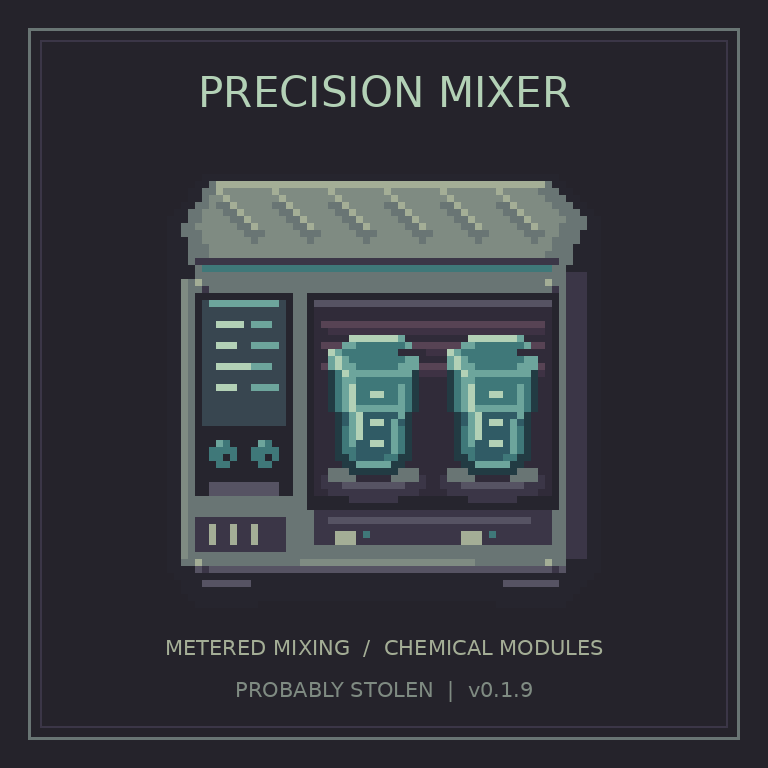
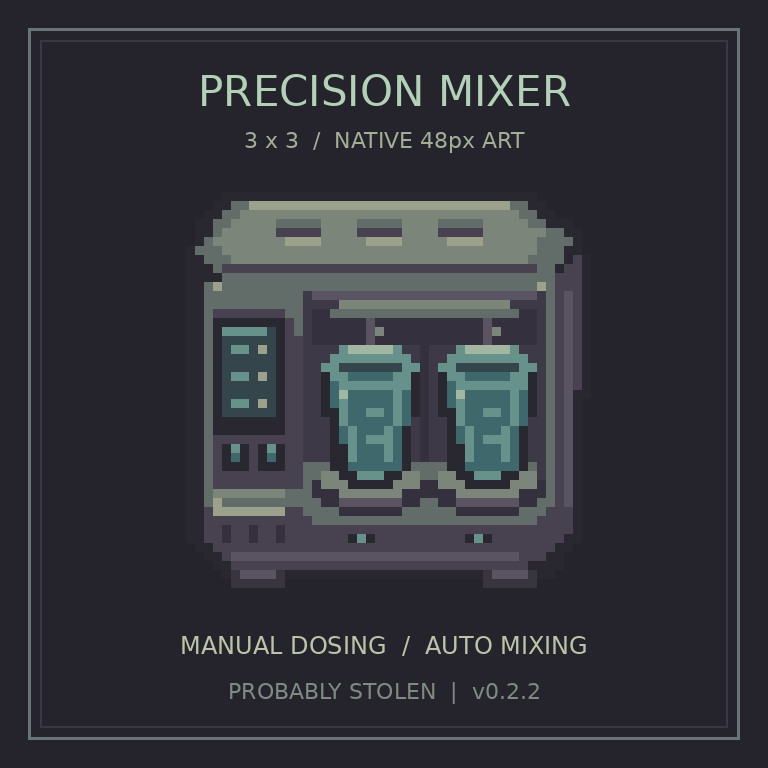
release: prepare v0.2.2 metadata and record user-tested status

diff --git a/publishing/draw_preview.py b/publishing/draw_preview.py
@@ -1,0 +1,28 @@
+"""Rebuild the Workshop preview from original runtime art (Pillow + DejaVu Sans)."""
+from pathlib import Path
+from PIL import Image, ImageDraw, ImageFont
+import xml.etree.ElementTree as ET
+
+root = Path(__file__).resolve().parents[1]
+version = ET.parse(root / 'assets/manifest.xml').findtext('ModVersion')
+font_path = next((p for p in (Path('/usr/share/fonts/TTF/DejaVuSans.ttf'),
+                            Path('/usr/share/fonts/truetype/dejavu/DejaVuSans.ttf')) if p.is_file()), None)
+if font_path is None:
+    raise SystemExit('Install DejaVu Sans or update the font path in this script.')
+canvas = Image.new('RGB', (768, 768), '#25232b')
+draw = ImageDraw.Draw(canvas)
+draw.rectangle((28, 28, 739, 739), outline='#697574', width=3)
+draw.rectangle((40, 40, 727, 727), outline='#3b3647', width=2)
+def title(y, text, size, color):
+    draw.text((384, y), text, anchor='mt', fill=color, font=ImageFont.truetype(str(font_path), size))
+title(74, 'PRECISION MIXER', 42, '#b3d1b6')
+title(132, '3 x 3  /  NATIVE 48px ART', 22, '#a4ae96')
+with Image.open(root / 'assets/Textures/Items/precision_mixer_both.png') as sprite:
+    enlarged = sprite.resize((432, 432), Image.Resampling.NEAREST)
+    canvas.paste(enlarged, (168, 174), enlarged)
+title(636, 'MANUAL DOSING  /  AUTO MIXING', 24, '#bcc4a8')
+title(682, f'PROBABLY STOLEN  |  v{version}', 22, '#7f8b82')
+output = root / 'publishing/workshop-preview.png'
+canvas.save(output)
+assert output.stat().st_size < 1_000_000
+print(f'Preview created: 768px, integer9x sprite enlargement; {output.stat().st_size} bytes.')

diff --git a/publishing/prepare_workshop.py b/publishing/prepare_workshop.py
@@ -29,8 +29,8 @@ def main():
         raise SystemExit("Build the mod before preparing upload.")
     import xml.etree.ElementTree as ET
     version = ET.parse(folder / "manifest.xml").findtext("ModVersion")
-    if version != "0.1.9":
-        raise SystemExit(f"Workshop metadata still describes 0.1.9, not staged {version}; update and review it before publishing.")
+    if version != "0.2.2":
+        raise SystemExit(f"Workshop metadata still describes 0.2.2, not staged {version}; update and review it before publishing.")
     values = {
         "appid": "4348910",
         "publishedfileid": item_id,
@@ -39,7 +39,7 @@ def main():
         "visibility": "0",
         "title": "Precision Mixer / 精密配比机",
         "description": (ROOT / "publishing/workshop-description.txt").read_text(),
-        "changenote": "v0.1.9: adopt GNU GPL v3 only; include LICENSE, NOTICE and corresponding source links. Gameplay unchanged from v0.1.8.",
+        "changenote": "v0.2.2: full 3x3 footprint, original native 48px four-state art, saved-footprint reload handling. Includes manual dosing / chem_scanner-gated automatic mixing and Jackson's 25% daily, one-per-save stock. User confirmed testing passed. GPL-3.0-only; source on GitHub.",
     }
     TARGET.parent.mkdir(parents=True, exist_ok=True)
     TARGET.write_text('"workshopitem"\n{\n' + ''.join(f'    {quote(k)} {quote(v)}\n' for k, v in values.items()) + '}\n')

diff --git a/publishing/README.md b/publishing/README.md
@@ -1,41 +1,40 @@
 # Publishing / 发布
 
-GitHub repository: https://github.com/mcxufly/probably-stolen-precision-mixer
+- Repository: https://github.com/mcxufly/probably-stolen-precision-mixer
+- Release: https://github.com/mcxufly/probably-stolen-precision-mixer/releases/tag/v0.2.2
+- Existing public Workshop item: https://steamcommunity.com/sharedfiles/filedetails/?id=3834261506
 
-GitHub release for the GPL v3 update: https://github.com/mcxufly/probably-stolen-precision-mixer/releases/tag/v0.1.9
+Version0.2.2 adds a full3×3 footprint, original48px four-state art, and footprint restoration on load. It also includes the dual-mode/analyzer gate and Jackson stock changes since the last public release0.1.9. Release notes: `RELEASE-v0.2.2.md`.
 
-The public Workshop item was verified at v0.1.8. Its v0.1.9 license files and description are prepared locally; it still needs a SteamCMD upload using the same item ID.
+## Build and validate
 
-Public Workshop item: https://steamcommunity.com/sharedfiles/filedetails/?id=3834261506
+```sh
+bash build.sh
+python3 verification/check_localization.py
+python3 verification/check_sprites.py
+python3 verification/check_sprites.py dist/PrecisionMixer
+python3 publishing/draw_preview.py
+python3 publishing/prepare_workshop.py
+```
 
-Workshop ID `3834261506` is recorded in `workshop-id.txt`. Fresh checkouts reuse it automatically; a conflicting nonzero ID in the local VDF aborts upload rather than updating the wrong item. Public page, creator, preview, bilingual description and subscribe controls were verified without signing into Steam.
+Run the algorithm and real-game API checks described in the root README. Only `dist/PrecisionMixer` is Workshop content. Do not include game DLLs, reference sprites, decompiled output, development scripts, credentials, archives or artwork source in that folder. Preview artwork is original and its enlarged sprite uses integer nearest-neighbour sampling; keep the file below1MB.
 
-## Steam Workshop / 创意工坊
+## GitHub
 
-The upload is configured as **public** for App ID `4348910`. Login must use a Steam account that owns the game. Do not place passwords, Steam Guard codes, Steam config files, or auth caches in the repository.
+Keep the manifest, documentation, `v0.2.2` tag, release and archive names in sync. Attach `PrecisionMixer-0.2.2.zip` plus `PrecisionMixer-0.2.2-source.zip`; the latter must contain tracked original sources, resources, reproducible art/build scripts, LICENSE and NOTICE. Preserve older tags. Verify the public release status and downloaded archive hashes after upload.
 
-本次上传可见性为**公开**。请使用拥有游戏的 Steam 账号，在你自己的终端输入密码与 Steam Guard；不要把密码或验证码发到聊天里。
+## Steam Workshop
 
-1. Build: `bash build.sh`.
-2. The script prefers `steamcmd` installed on `PATH` (currently `/usr/bin/steamcmd`), or an executable path supplied as `STEAMCMD_BIN`. It falls back to `.tools/steamcmd/steamcmd.sh`. SteamCMD needs 32-bit C/C++ runtime support. Its HOME is isolated under ignored `.tools/steam-home`, so an existing login under your usual home may need to be repeated.
-3. Run in a terminal:
+App ID4348910, visibility public. `workshop-id.txt` records the existing item3834261506. The VDF generator preserves its ID and aborts on a conflicting nonzero ID. Never reset this ID to retry an update.
 
-   ```bash
-   bash publishing/upload_workshop.sh YOUR_STEAM_LOGIN_NAME
-   ```
+```sh
+bash publishing/upload_workshop.sh YOUR_STEAM_LOGIN_NAME
+```
 
-   Replace the placeholder with your Steam **login name**, not your profile display name. The script launches SteamCMD with no password in its arguments. SteamCMD prompts for password/Guard as required.
+The script prefers the user's installed `steamcmd` or `STEAMCMD_BIN`, falling back to the project-local copy. It uses SteamCMD's normal account cache without redefining HOME. A previous cache under `.tools/steam-home` is not automatically copied or reused. Password/Steam Guard must be entered by the user in their own interactive terminal; never send them in chat or put them in command arguments/logs/source. Authentication caches remain outside tracked sources.
 
-4. After successful upload, SteamCMD writes the new `publishedfileid` back to `.tools/steamcmd/workshop.vdf`. **Keep this file**: its ID is required for future updates. The generator preserves it, preventing accidental duplicate items. Do not delete/recreate it to retry an update. Steam login/config files stay under ignored `.tools`.
-5. Open `https://steamcommunity.com/sharedfiles/filedetails/?id=ITEM_ID`. On first upload, accept the Steam Workshop legal agreement if Steam asks. Confirm the item is public, subscribe, enable it in the game Mods menu, and restart.
-6. Report the item URL/ID back to record and verify the release. Do not share login logs containing secrets.
+After upload, verify the public item page, creator, App, preview, bilingual description, subscribe controls and update version. Cached or delayed Workshop content is not proof of a failed upload; check the actual update timestamp and upload result before retrying.
 
-The VDF is generated by `prepare_workshop.py`; source description and preview are tracked here. Only `dist/PrecisionMixer` is uploaded as workshop content; development scripts, game assemblies, and decompiled inspection files are excluded.
+## Test status
 
-## GitHub Releases
-
-Tag `v0.1.9` includes the GPL-3.0-only license update. Release notes are in `RELEASE-v0.1.9.md`; attach both the install ZIP and the corresponding source ZIP. Both include LICENSE and NOTICE; the source ZIP includes build scripts, resources and artwork sources. Preserve older release tags. The Workshop description points to the exact source release.
-
-## Validation caveat
-
-The build, algorithms, real game fluid-allocation functions, manifest compatibility, and game scanner are checked automatically. The user confirmed the chemical-module gameplay test for v0.1.8. That confirmation does not establish exhaustive manual UI/save-load coverage; the license update does not change gameplay.
+The build, algorithms, real game fluid allocation, manifest compatibility, sprite sampling and native scanner are automatically checked. The user explicitly confirmed successful testing of the0.2.2 update on2026-11-09, in addition to the earlier0.1.8 chemical-module confirmation. This is not a claim that every UI/save-load/rotated-placement boundary was individually tested.

diff --git a/publishing/RELEASE-v0.2.2.md b/publishing/RELEASE-v0.2.2.md
@@ -1,4 +1,4 @@
-# 0.2.2 — 3×3 footprint and native-resolution art (local build)
+# 0.2.2 — 3×3 footprint and native-resolution art
 
 ## Changes / 修改
 
@@ -20,8 +20,20 @@
 - Real manifest parser/version normalization and ModScanner pass; no capabilities or hard refusal flags.
 - Both locales:72 matching keys and valid placeholders.
 - Four-state art was visually inspected; deterministic generation checked.
-- No interactive game test of this new footprint, old-save migration or rotated placement has been performed. Existing v0.1.8 chemical-module test confirmation is not treated as acceptance of this new version.
+- On 2026-11-09 the user explicitly confirmed that this 0.2.2 update had been tested successfully. The user did not enumerate every old-save, rotated-placement or UI boundary scenario; this is not a claim of exhaustive coverage. The earlier v0.1.8 chemical-module test confirmation is retained separately.
 
-## Scope / 范围
+## Included since the last public release / 相对上次公开版本
 
-Local development build only. No game-directory installation, Steam upload, GitHub push/release, or release tag was performed for this task. Use the paired installation/source archives; the source includes the reproducible art script and build instructions.
+The last public release was0.1.9; this release also includes the subsequent dual-mode dosing and stock changes:
+
+- Manual mL dosing works without a detector, including into an empty target bottle. Amounts round down to the chemical-module metering step; the preview shows the actual dose.
+- Automatic percentage mixing requires an owned original `chem_scanner` (not water-test paper or a basic water scanner). Losing it returns the machine to manual mode and clears analysis UI.
+- Dr. Jackson stocks the machine with a stable25% daily chance, with one successful purchase per save. The in-machine bilingual help explains the rules.
+
+仅掺杂模式无需检测仪；自动配比必须持有原版完整化学检测仪。博士每日25%稳定概率上架，每存档限购一台；机器内提供中英文说明。
+
+## Upgrade / 升级
+
+Subscribe/update through the existing Workshop item or replace the manual-install `PrecisionMixer` folder, then restart the game. Back up saves first. The machine is smaller but storage-node order and contents are unchanged. Before uninstalling, remove bottles and dispose of all mixers; installed chemical modules remain locked.
+
+This release updates the existing public GitHub repository and Workshop item3834261506; it does not create a duplicate item. Installation and corresponding-source archives include GPL-3.0-only licensing and build instructions.
